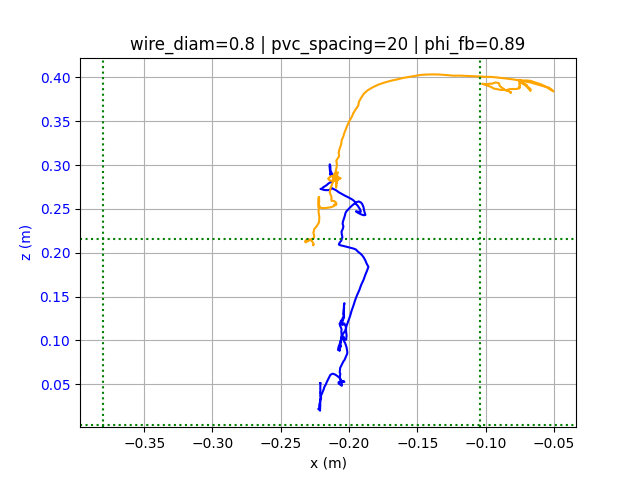
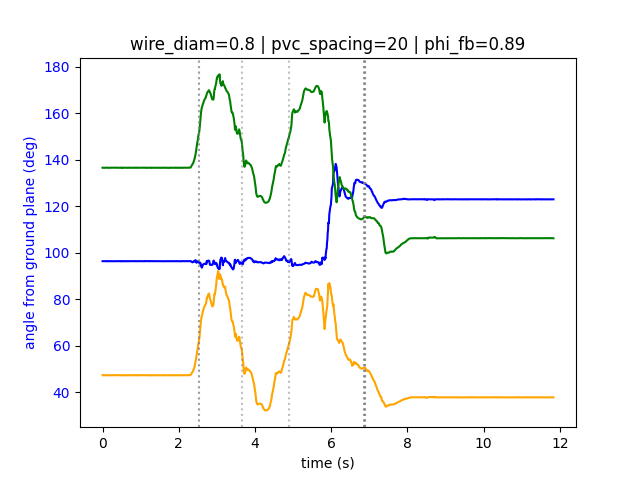
Added and tested on a select few trials: pickup-function detection, perimeter function, raw module angle function, distance between two markers function, distance between two top markers (robust to naming changes) function, identifying reasonable mean marker distance --> timing when robot is flat fu

diff --git a/data_cleaning/reconstruction.py b/data_cleaning/reconstruction.py
@@ -3,10 +3,177 @@ import matplotlib.pyplot as plt
 import numpy as np
 from datetime import datetime
 import limits
+import math
 
-# Get raw module angles (relative to defined ground plane). Using normal vectors
-def get_module_angle(df: pd.dataFrame):
+# formatted in the following hierarchy: wire diam, pvc spacing, phi_fb
+front_marker2_is_top_cases = [
+    [1.0, 30, 0.45], [1.0, 30, 0.86], 
+    [1.0, 20, 0.2], [1.0, 20, 0.28],
+    [0.8, 20, 0.9], [0.8, 20, 0.1], [0.8, 20, 0.35],
+    [0.5, 20, 0.28], [0.5, 20, 0.27], [0.5, 20, 0.12]
+]
+
+back_marker2_is_top_cases = [
+    ["static", 30, "all"]
+]
+
+top_marker_dist_lims = [105e-3, 150e-3] # m
+
+# Get raw module angles (relative to defined ground plane). Using normal vector of rigid body, relative to each origin axis.
+def get_module_angle(df: pd.DataFrame, module_name: str):
+    # Use all three module markers as points to define the plane, find the x, y, and z angles
+    # relative to the ground plane, as defined by the normal vector <x, y, z> = <0, 1, 0>
+    # and the origin (x, y, z) = (0, 0, 0)
+
+    # Ground plane normal
+    ground_normal = np.array([0.0, 1.0, 0.0])
+
+    # Extract the three marker positions as (x, y, z) tuples
+    markers = [f"{module_name}:Marker1", f"{module_name}:Marker2", f"{module_name}:Marker3"]
+    points = []
+    for marker in markers:
+        try:
+            x = df[(marker, "Position", "X")]
+            y = df[(marker, "Position", "Y")]
+            z = df[(marker, "Position", "Z")]
+            points.append(np.column_stack((x, y, z)))
+        except KeyError:
+            raise KeyError(f"Marker column '{marker}' not found in DataFrame.")
+
+    # Stack into a single array of shape (n_samples, 3, 3)
+    p1, p2, p3 = points  # each is (n_samples, 3)
+
+    # Compute two edge vectors for each time step: v1 = p2-p1, v2 = p3-p1
+    v1 = p2 - p1
+    v2 = p3 - p1
+
+    # Normal vector = v1 × v2 for each time step (cross product along last axis)
+    module_normal = np.cross(v1, v2)  # shape (n_samples, 3)
+
+    # Normalize to unit vectors
+    norm = np.linalg.norm(module_normal, axis=1, keepdims=True)
+    # Avoid division by zero
+    norm[norm == 0] = 1.0
+    module_normal_unit = module_normal / norm
+
+    # Compute angles (in radians, converted to degrees) between module normal and each axis
+    # Angle relative to ground normal (y-axis)
+    dot_y = np.clip(module_normal_unit[:, 1], -1.0, 1.0)
+    y_angle = np.degrees(np.arccos(dot_y))
+
+    # Angle relative to x-axis
+    dot_x = np.clip(module_normal_unit[:, 0], -1.0, 1.0)
+    x_angle = np.degrees(np.arccos(dot_x))
+
+    # Angle relative to z-axis
+    dot_z = np.clip(module_normal_unit[:, 2], -1.0, 1.0)
+    z_angle = np.degrees(np.arccos(dot_z))
 
     return x_angle, y_angle, z_angle
 
+# Plot module angles
+def plot_angles(df: pd.DataFrame, x_angle, y_angle, z_angle):
+    t = df.index
+
+    fig, ax = plt.subplots()
+    ax.plot(t, x_angle, color="blue")
+    ax.plot(t, y_angle, color="orange")
+    ax.plot(t, z_angle, color="green")
+    # ax.legend()
+    ax.set(xlabel='time (s)')
+    ax.set_ylabel(ylabel='angle from ground plane (deg)', color="blue")
+    ax.tick_params(axis='y', labelcolor="blue")
+
+    return ax
+
+# Plot module marker distance
+def plot_marker_distance(df: pd.DataFrame, dist):
+    t = df.index
+
+    ax = plt.subplot()
+    ax.plot(t, dist, color="blue")
+    ax.axhline(y=(max(dist) + min(dist))/2.0)
+    ax.set(xlabel='time (s)')
+    ax.set_ylabel(ylabel='euclidean distance between markers (m)', color="blue")
+    ax.tick_params(axis='y', labelcolor="blue")
+
+    return ax
+
+# Plot times when body should be flat (according to marker distance)
+def plot_robot_flat_times(flat_times, ax=None):
+    if ax is None:
+        ax = plt.subplot()
+    
+    for t in flat_times:
+        ax.axvline(x=t, color='gray', linestyle=':', alpha=0.5)
+    
+    return ax
+
 # Get distance in xyz between top markers (check if the trial, defined by wire_diam, pvc_spacing, or phi_fb, have the top markers switched)
+def get_marker_distance(df: pd.DataFrame, marker_1: str, marker_2: str):
+    marker1_subscript = ".1" if (marker_1, "Position", "X") in df.columns else ""
+    marker2_subscript = ".1" if (marker_2, "Position", "X") in df.columns else ""
+
+    x_1 = df[(marker_1, "Position", "X" + marker1_subscript)]
+    y_1 = df[(marker_1, "Position", "Y" + marker1_subscript)]
+    z_1 = df[(marker_1, "Position", "Z" + marker1_subscript)]
+
+    x_2 = df[(marker_2, "Position", "X" + marker2_subscript)]
+    y_2 = df[(marker_2, "Position", "Y" + marker2_subscript)]
+    z_2 = df[(marker_2, "Position", "Z" + marker2_subscript)]
+
+    dist = []
+
+    for i in range(len(df.index)):
+        dist.append(math.dist([x_1.iloc[i], y_1.iloc[i], z_1.iloc[i]], [x_2.iloc[i], y_2.iloc[i], z_2.iloc[i]]))
+
+    return dist
+
+# Get distance between two top markers, checking for cases when 
+# the top marker is Marker2 rather than Marker1
+def get_top_marker_names(df: pd.DataFrame):
+    settings = [limits.wire_diam, limits.pvc_spacing, limits.phi_fb]
+
+    front_mod_name = "FrontMod" if ("FrontMod", "Position", "X") in df.columns else \
+                   "FrontBody" if ("FrontBody", "Position", "X") in df.columns else None
+
+    back_mod_name = "BackMod" if ("BackMod", "Position", "X") in df.columns else \
+                   "BackMod2" if ("BackMod2", "Position", "X") in df.columns else \
+                    "BackBody" if ("BackBody", "Position", "X") in df.columns else None
+
+    front_marker_name = "Marker1" if not settings in front_marker2_is_top_cases else "Marker2"
+    back_marker_name = "Marker1" if not settings in back_marker2_is_top_cases else "Marker2"
+
+    marker_1 = front_mod_name + ":" + front_marker_name
+    marker_2 = back_mod_name + ":" + back_marker_name
+
+    return marker_1, marker_2
+
+# Find timestamps where robot is flat, using average top marker distance
+def get_robot_flat_times(df: pd.DataFrame, dist):
+    mean_marker_dist = (min(dist) + max(dist))/2.0
+    flat_times = []
+
+    # Break if the mean distance is outside of the feasible range
+    if mean_marker_dist < top_marker_dist_lims[0] or  mean_marker_dist > top_marker_dist_lims[1]:
+        print(f"Top marker mean distance of {mean_marker_dist} m is outside of the reasonable bounds of {top_marker_dist_lims}")
+        return flat_times
+
+    # Now, find values within dist which equal mean_marker_dist. Then, using their index, 
+    # find the corresponding index value in df
+    for i in range(len(dist)):
+        if abs(dist[i] - mean_marker_dist) <= 1e-3: # If marker distance is within 1 mm of the mean_marker_dist
+            flat_times.append(df.index[i])
+    
+    return flat_times
+
+if __name__ == "__main__":
+    df = limits.csv_to_df(limits.file_name, limits.file_dir)
+    x_angle, y_angle, z_angle = get_module_angle(df, "FrontMod")
+    marker_1, marker_2 = get_top_marker_names(df)
+    dist = get_marker_distance(df, marker_1, marker_2)
+
+    ax = plot_angles(df, x_angle, y_angle, z_angle)
+    # ax = plot_marker_distance(df, dist)
+    plot_robot_flat_times(get_robot_flat_times(df, dist), ax)
+    limits.show_plot()

diff --git a/data_cleaning/limits.py b/data_cleaning/limits.py
@@ -150,6 +150,7 @@ def plot_mod_path(df: pd.DataFrame):
 # by the starting values of the individual markers on pvc1 and pvc4 -- define start as when pvc1 and pvc4
 # have non-empty position values. Define the largest possible rectangle. 
 # Print a note that there is no perimeter checking occuring if wire_diam = static and then pass
+# FIXME: Ignore pvc1 for 0.5, 20 mm, 0.61 phi_fb case
 def sense_robot_perimeter(df: pd.DataFrame, start_t: float, stop_t: float):
     # Print a note if wire_diam is static (no perimeter checking)
     if isinstance(wire_diam, str) and wire_diam.lower() == "static":